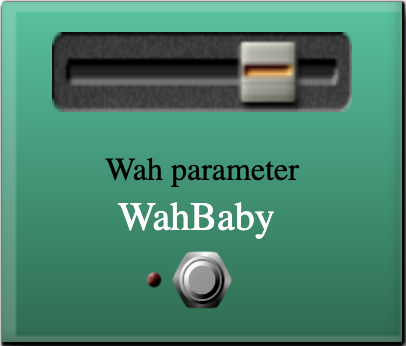
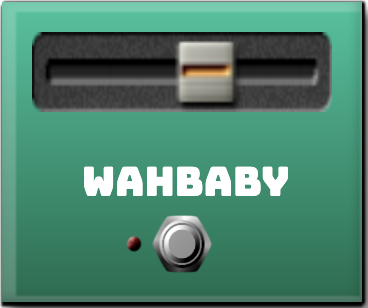
WahBaby font + change image

Changed region(s): [[0.0897, 0.0877, 0.9266, 0.3799], [0.2092, 0.4383, 0.8071, 0.9058], [0.0, 0.0, 1.0, 1.0]]

diff --git a/jordan-SINTES/WahBaby/main.html b/jordan-SINTES/WahBaby/main.html
@@ -1,3 +1,5 @@
+<link rel="stylesheet"
+        href="https://fonts.googleapis.com/css?family=Bungee">
 <script
     src="https://wasabi.i3s.unice.fr/WebAudioPluginBank/bower_components/webaudio-controls2/webcomponents-lite.js"></script>
 <script>
@@ -10,13 +12,13 @@
 <template>
     <style>
         :host {
-            font: "DarkMoon", 'Arial Black';
+            font: "Bungee";
             display: block;
             box-shadow: 4px 5px 6px rgba(0, 0, 0, 0.7), inset -2px -2px 5px 0px rgba(0, 0, 0, 0.2), inset 3px 1px 1px 4px rgba(255, 255, 255, 0.2), 1px 0px 1px 0px rgba(0, 0, 0, 0.9), 0 2px 1px 0 rgba(0, 0, 0, 0.9), 1px 1px 1px 0px rgba(0, 0, 0, 0.9);
             background: linear-gradient(rgb(14, 197, 157), rgb(5, 109, 78));
             position: relative;
-            width: 200px;
-            height: 170px;
+            width: 180px;
+            height: 150px;
             user-select: none;
             cursor: move;
             z-index: 9;
@@ -47,11 +49,11 @@
         }
 
         .pedalLabel {
-            margin-left: 58px;
+            margin-left: 40px;
             top: 225px;
             font-size: 20px;
             /*{font}*/
-            font-family: "DarkMoon";
+            font-family: "Bungee";
             text-align: center;
             line-height: 30px;
             /*{pedalfontsize}*/
@@ -86,7 +88,6 @@
             <webaudio-slider value="0.8" height="40" width="150" max="1" min="0" step="0.01"
                 src="assets/img/sliders/slider1.png" knobsrc="assets/img/sliders/sliderKnob.png" id="/CRYBABY/Wah_parameter"
                 style="height: 60px; margin-top:15px;"></webaudio-slider>
-            <div>Wah parameter</div>
         </div>
         <span class="pedalLabel">WahBaby</span>
         <div class="switch" id="Bypass">
